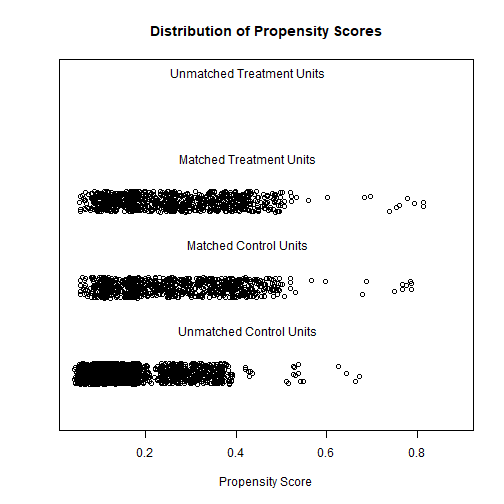
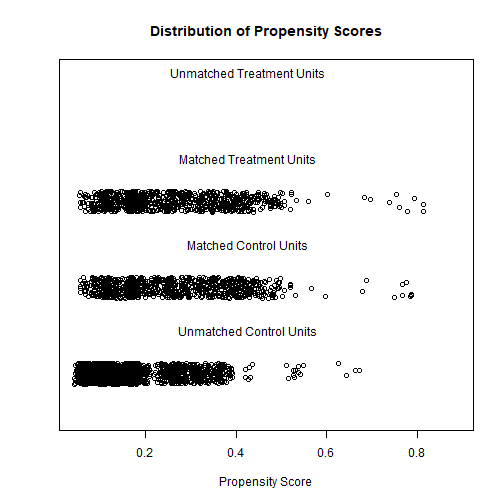
fix sesion 17

diff --git a/sesiones/s17/sesion17.html b/sesiones/s17/sesion17.html
@@ -104,11 +104,6 @@ descriptiva &lt;- datasummary_balance(~smoke,
 
 # Datos sin procesar
 .tiny[
-
-```r
-descriptiva
-```
-
 &lt;table class="table" style="width: auto !important; margin-left: auto; margin-right: auto;"&gt;
 &lt;caption&gt;Estadística descriptiva&lt;/caption&gt;
  &lt;thead&gt;
@@ -283,10 +278,10 @@ summary(nn1_1)
 
 ```
 ## 
-## Estimate...  -172.73 
-## SE.........  28.403 
-## T-stat.....  -6.0814 
-## p.val......  1.1916e-09 
+## Estimate...  -185.04 
+## SE.........  28.461 
+## T-stat.....  -6.5015 
+## p.val......  7.9526e-11 
 ## 
 ## Original number of observations..............  4612 
 ## Original number of treated obs...............  863 
@@ -340,6 +335,7 @@ nn1_2  &lt;- Match(Y=Y, Tr=Tr, X=X, M=1, replace=FALSE, CommonSupport=TRUE)
 ```
 ]
 
+.tiny[
 .pull-right[
 
 ```r
@@ -348,10 +344,10 @@ summary(nn1_2)
 
 ```
 ## 
-## Estimate...  -191.4 
-## SE.........  29.423 
-## T-stat.....  -6.5052 
-## p.val......  7.7602e-11 
+## Estimate...  -183.5 
+## SE.........  28.659 
+## T-stat.....  -6.4028 
+## p.val......  1.5253e-10 
 ## 
 ## Original number of observations..............  4535 
 ## Original number of treated obs...............  862 
@@ -359,7 +355,7 @@ summary(nn1_2)
 ## Matched number of observations  (unweighted).  862
 ```
 ]
-
+]
 ---
 
 # Evaluamos el balance
@@ -477,64 +473,11 @@ m.out &lt;- matchit(formula=prob,
                data = data.smoking)
 ```
 
----
-
-# *MatchIt*
+- El resumen del procedimiento da bastante información sobre el pareamiento:
 
 
 ```r
 summary(m.out)
-```
-
-```
-## 
-## Call:
-## matchit(formula = prob, data = data.smoking, method = "nearest", 
-##     distance = "logit", discard = "control", replace = FALSE)
-## 
-## Summary of balance for all data:
-##                    Means Treated Means Control SD Control Mean Diff eQQ Med eQQ Mean eQQ Max
-## distance                  0.2575        0.1749     0.1061    0.0826  0.0803   0.0825  0.2269
-## mmarriedmarried           0.4734        0.7448     0.4360   -0.2714  0.0000   0.2708  1.0000
-## mmarriednotmarried        0.5266        0.2552     0.4360    0.2714  0.0000   0.2708  1.0000
-## fbabyYes                  0.3715        0.4509     0.4977   -0.0794  0.0000   0.0799  1.0000
-## medu                     11.6389       12.8645     2.5080   -1.2256  1.0000   1.2188  6.0000
-## nprenatal                 9.8623       10.9392     3.4984   -1.0769  1.0000   1.1076  7.0000
-## foreign                   0.0255        0.0409     0.1981   -0.0154  0.0000   0.0162  1.0000
-## mhisp                     0.0243        0.0300     0.1706   -0.0057  0.0000   0.0058  1.0000
-## fage                     24.7431       27.6644     8.7639   -2.9213  2.0000   3.0150 20.0000
-## 
-## 
-## Summary of balance for matched data:
-##                    Means Treated Means Control SD Control Mean Diff eQQ Med eQQ Mean eQQ Max
-## distance                  0.2575        0.2569     0.1277    0.0006   1e-04   0.0007  0.0273
-## mmarriedmarried           0.4734        0.4711     0.4995    0.0023   0e+00   0.0023  1.0000
-## mmarriednotmarried        0.5266        0.5289     0.4995   -0.0023   0e+00   0.0023  1.0000
-## fbabyYes                  0.3715        0.3877     0.4875   -0.0162   0e+00   0.0162  1.0000
-## medu                     11.6389       11.6991     2.4323   -0.0602   0e+00   0.2315  6.0000
-## nprenatal                 9.8623        9.8090     4.0397    0.0532   0e+00   0.1250  7.0000
-## foreign                   0.0255        0.0139     0.1171    0.0116   0e+00   0.0116  1.0000
-## mhisp                     0.0243        0.0243     0.1541    0.0000   0e+00   0.0000  0.0000
-## fage                     24.7431       24.4410    10.5128    0.3021   1e+00   0.9641 17.0000
-## 
-## Percent Balance Improvement:
-##                    Mean Diff.  eQQ Med eQQ Mean  eQQ Max
-## distance              99.3032  99.9292  99.1325  87.9592
-## mmarriedmarried       99.1472   0.0000  99.1453   0.0000
-## mmarriednotmarried    99.1472   0.0000  99.1453   0.0000
-## fbabyYes              79.5921   0.0000  79.7101   0.0000
-## medu                  95.0894 100.0000  81.0066   0.0000
-## nprenatal             95.0563 100.0000  88.7147   0.0000
-## foreign               24.9959   0.0000  28.5714   0.0000
-## mhisp                100.0000   0.0000 100.0000 100.0000
-## fage                  89.6594  50.0000  68.0230  15.0000
-## 
-## Sample sizes:
-##           Control Treated
-## All          3668     864
-## Matched       864     864
-## Unmatched    2759       0
-## Discarded      45       0
 ```
 
 ---
@@ -585,9 +528,9 @@ head(m.out$match.matrix)
 ## 11 "4025"
 ## 20 "2908"
 ## 25 "855" 
-## 43 "4212"
+## 43 "1783"
 ## 47 "3993"
-## 49 "1981"
+## 49 "4201"
 ```
 
 ---
@@ -618,16 +561,16 @@ summary(z.out)
 ## 
 ## Residuals:
 ##      Min       1Q   Median       3Q      Max 
-## -2976.44  -311.44    41.45   371.25  1880.34 
+## -2977.58  -312.58    45.84   377.34  1880.34 
 ## 
 ## Coefficients:
 ##             Estimate Std. Error t value Pr(&gt;|t|)
-## (Intercept)  3316.44      20.27 163.649  &lt; 2e-16
-## smoke        -178.78      28.66  -6.238 5.56e-10
+## (Intercept)  3317.58      20.45 162.256  &lt; 2e-16
+## smoke        -179.92      28.92  -6.222 6.14e-10
 ## 
-## Residual standard error: 595.7 on 1726 degrees of freedom
-## Multiple R-squared:  0.02205,	Adjusted R-squared:  0.02148 
-## F-statistic: 38.91 on 1 and 1726 DF,  p-value: 5.557e-10
+## Residual standard error: 601 on 1726 degrees of freedom
+## Multiple R-squared:  0.02194,	Adjusted R-squared:  0.02137 
+## F-statistic: 38.71 on 1 and 1726 DF,  p-value: 6.145e-10
 ## 
 ## Next step: Use 'setx' method
 ```
@@ -669,16 +612,16 @@ summary(z.out)
 ## 
 ## Residuals:
 ##      Min       1Q   Median       3Q      Max 
-## -2993.16  -328.16    40.84   377.34  1880.34 
+## -2999.07  -306.07    39.93   374.93  1880.34 
 ## 
 ## Coefficients:
 ##             Estimate Std. Error t value Pr(&gt;|t|)
-## (Intercept)  3333.16      20.35 163.809  &lt; 2e-16
-## smoke        -195.50      28.78  -6.794  1.5e-11
+## (Intercept)  3339.07      20.35 164.062  &lt; 2e-16
+## smoke        -201.41      28.78  -6.998 3.71e-12
 ## 
-## Residual standard error: 598.1 on 1726 degrees of freedom
-## Multiple R-squared:  0.02605,	Adjusted R-squared:  0.02548 
-## F-statistic: 46.16 on 1 and 1726 DF,  p-value: 1.498e-11
+## Residual standard error: 598.2 on 1726 degrees of freedom
+## Multiple R-squared:  0.02759,	Adjusted R-squared:  0.02702 
+## F-statistic: 48.97 on 1 and 1726 DF,  p-value: 3.711e-12
 ## 
 ## Next step: Use 'setx' method
 ```
@@ -741,16 +684,16 @@ summary(z.out)
 ## 
 ## Residuals:
 ##      Min       1Q   Median       3Q      Max 
-## -3026.67  -304.67    36.99   375.66  1879.99 
+## -2904.47  -305.60    43.53   376.99  1879.99 
 ## 
 ## Coefficients:
 ##             Estimate Std. Error t value Pr(&gt;|t|)
-## (Intercept)  3366.67      14.96 225.059   &lt;2e-16
-## smoke        -228.66      25.34  -9.025   &lt;2e-16
+## (Intercept)  3358.47      14.96 224.451   &lt;2e-16
+## smoke        -220.46      25.32  -8.708   &lt;2e-16
 ## 
-## Residual standard error: 599.7 on 2465 degrees of freedom
-## Multiple R-squared:  0.03199,	Adjusted R-squared:  0.03159 
-## F-statistic: 81.45 on 1 and 2465 DF,  p-value: &lt; 2.2e-16
+## Residual standard error: 598.9 on 2460 degrees of freedom
+## Multiple R-squared:  0.0299,	Adjusted R-squared:  0.02951 
+## F-statistic: 75.83 on 1 and 2460 DF,  p-value: &lt; 2.2e-16
 ## 
 ## Next step: Use 'setx' method
 ```
